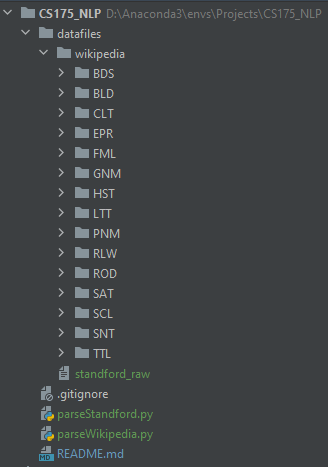
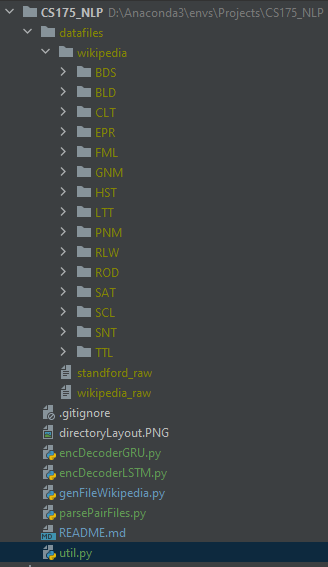
-commit basic models using LSTM and GRU cells
-genFileWikipedia.py complete to create jap-eng pair file
-README.md updated with latest directions

Changed region(s): [[0.0, 0.0, 1.0, 1.0]]

diff --git a/genFileWikipedia.py b/genFileWikipedia.py
@@ -1,0 +1,55 @@
+import xml.etree.ElementTree as ET
+import os
+
+# https://stackoverflow.com/questions/1912434/how-do-i-parse-xml-in-python
+# https://docs.python.org/3/library/xml.etree.elementtree.html
+
+def wikiCreateJapEnglishPairList() -> list:
+    listPairs = list()
+
+    for path, subdirs, files in os.walk("./datafiles/wikipedia"):
+        # if(path not in {"./datafiles/wikipedia\\CLT"}): # only include "culture" category
+        #     continue
+
+        try:
+            for name in files:
+                #print(os.path.join(path, name))
+
+                #corpus = ET.parse('./datafiles/wikipedia/BDS/BDS00001.xml').getroot()
+                # for child in corpus:
+                #     print(child.tag, child.attrib)
+
+                corpus = ET.parse(os.path.join(path, name)).getroot()
+
+                #from the root, get all children that follow this node heirarchy, two different types of text blocks so two different for loops
+                print(len(corpus.findall('par/sen')))
+                print(len(corpus.findall('sec/par/sen')))
+
+                for type_tag in corpus.findall('par/sen'):
+                    value = list(type_tag) # get all children elements under the <sen> tag
+                    japanese_child = value[0].text # 1st child
+                    english_child = value[5].text # 6th child
+
+                    # build [japanese, english] pairs
+                    listPairs.append([english_child, japanese_child])
+
+
+                for type_tag in corpus.findall('sec/par/sen'):
+                    value = list(type_tag) # get all children elements under the <sen> tag
+                    japanese_child = value[0].text # 1st child
+                    english_child = value[5].text # 6th child
+
+                    # build [japanese, english] pairs
+                    listPairs.append([english_child, japanese_child])
+
+
+            # write pairs out to file using <tab> as delimiter to match "standford_raw" dataset
+            with open("./datafiles/wikipedia_raw", mode="a", encoding="utf-8") as file_in:
+                for eng, jap in listPairs:
+                    file_in.write(eng + "\t" + jap + "\n")
+        except:
+            pass
+
+
+if __name__ == "__main__":
+    wikiCreateJapEnglishPairList()

diff --git a/encDecoderGRU.py b/encDecoderGRU.py
@@ -1,0 +1,33 @@
+from __future__ import unicode_literals, print_function, division
+from io import open
+import unicodedata
+import string
+import re
+import random
+
+import torch
+import torch.nn as nn
+from torch import optim
+import torch.nn.functional as F
+
+device = torch.device("cuda" if torch.cuda.is_available() else "cpu")
+
+class EncoderRNN(nn.Module):
+    def __init__(self, input_size, hidden_size):
+        super(EncoderRNN, self).__init__()
+        self.hidden_size = hidden_size
+
+        self.embedding = nn.Embedding(input_size, hidden_size)
+        self.gru = nn.GRU(hidden_size, hidden_size, dropout=0.8, bidirectional=True)
+        self.dropout = nn.Dropout(0.8)
+        #self.gru = nn.GRU(hidden_size, hidden_size, bidirectional=False)
+
+    def forward(self, input, hidden):
+        embedded = self.embedding(input).view(1, 1, -1)
+        output = embedded
+        #output, hidden = self.dropout(self.gru(output, hidden))
+        output, hidden = self.gru(output, hidden)
+        return output, hidden
+
+    def initHidden(self):
+        return torch.zeros(1, 1, self.hidden_size, device=device)

diff --git a/encDecoderLSTM.py b/encDecoderLSTM.py
@@ -1,0 +1,25 @@
+from __future__ import unicode_literals, print_function, division
+import torch
+import torch.nn as nn
+
+device = torch.device("cuda" if torch.cuda.is_available() else "cpu")
+
+class EncoderRNN(nn.Module):
+    def __init__(self, input_size, hidden_size):
+        super(EncoderRNN, self).__init__()
+        self.hidden_size = hidden_size
+
+        self.embedding = nn.Embedding(input_size, hidden_size)
+        self.lstm = nn.LSTM(hidden_size, hidden_size, dropout=0.8, bidirectional=True)
+        self.dropout = nn.Dropout(0.8)
+        #self.lstm = nn.LSTM(hidden_size, hidden_size, bidirectional=False)
+
+    def forward(self, input, hidden):
+        embedded = self.embedding(input).view(1, 1, -1)
+        output = embedded
+        #output, hidden = self.dropout(self.lstm(output, hidden))
+        output, hidden = self.lstm(output, hidden)
+        return output, hidden
+
+    def initHidden(self):
+        return torch.zeros(1, 1, self.hidden_size, device=device)

diff --git a/parsePairFiles.py b/parsePairFiles.py
@@ -1,0 +1,22 @@
+def processJapEnglishPairList() -> list:
+    listPairs = list()
+
+    with open("./datafiles/standford_raw", mode="r", encoding="utf-8") as file_in:
+        listPairs = list()
+        for line in file_in:
+            eng, jap = line.split("\t")
+            listPairs.append([jap, eng])
+    # add tokenization/preprocessing logic
+
+
+    with open("./datafiles/wikipedia_raw", mode="r", encoding="utf-8") as file_in:
+        listPairs = list()
+        for line in file_in:
+            eng, jap = line.split("\t")
+            listPairs.append([jap, eng])
+
+    # add tokenization/preprocessing logic
+
+
+if __name__ == "__main__":
+    processJapEnglishPairList()

diff --git a/util.py b/util.py
@@ -1,0 +1,5 @@
+def tokenizeJapanese():
+    pass
+
+def unicodeToAscii(): #convert to lowercase
+    pass

diff --git a/README.md b/README.md
@@ -6,3 +6,8 @@
 
 <u>Project layout:</u>  
 ![folder layout](./directoryLayout.PNG)
+
+<u>Directions:</u>
+1. Run genFileWikipedia.py to generate wikipedia_raw (jap, eng pairs)
+2. parseTokenizeFiles.py for preprocessing (nltk, text sanitization)
+3. util.py functions to tokenize japanese, add <EOS>, <SOS> tokens
